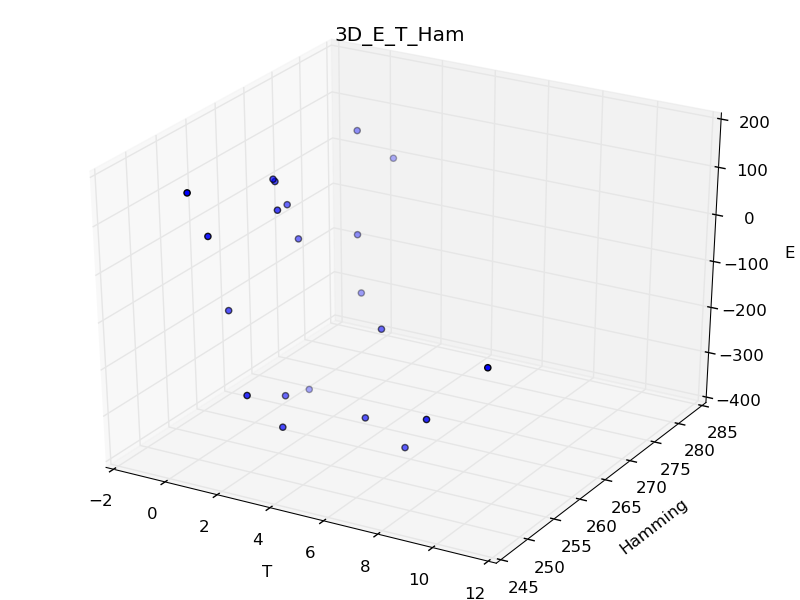
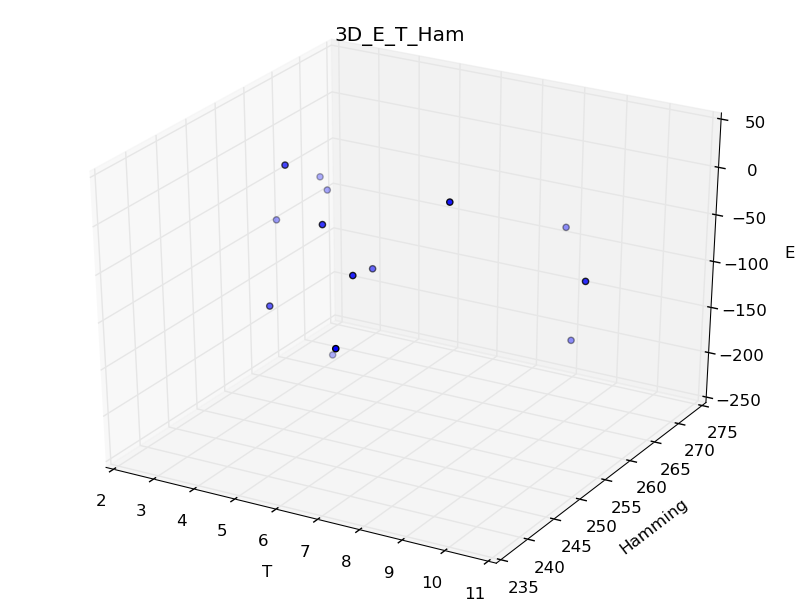
Added method to get timing of a full simulated annealing.

diff --git a/main.py b/main.py
@@ -3,6 +3,7 @@
 import os
 import re
 import numpy as np
+import time
 from graph.plot import (
     plot,
     multiPlot,
@@ -13,6 +14,7 @@ from data import (
     Solution,
 )
 from pdb import set_trace as debug
+from multiprocessing.pool import Pool
 
 
 def parse_instance(file):
@@ -40,6 +42,16 @@ def get_all_instances(nb_sg=None, nb_qubits=None, id=None):
                 instances.append(parse_instance(file))
     return instances
 
+
+def pool_SA(instance):
+    start = time.time()
+    while True:
+        conf, cost = instance.run_SA()
+        if cost == instance.min_cost:
+            break
+    end = time.time()
+    return (end - start)
+
 if __name__ == '__main__':
     data = Instance(nb_sg=504, id=199)
     print 'Cost of config:', data.get_cost(data.config)
@@ -47,7 +59,7 @@ if __name__ == '__main__':
     sa = data.run_SA(T=10)
     print 'Simulated Annealing: ', sa[1]
     print 'Loading all instances...'
-    instances = get_all_instances(nb_sg=420)
+    instances = get_all_instances(nb_sg=420, id=199)
     print 'Solving all instances...'
-    score = [i.run_SA() for i in instances]
-    debug()
+    p = Pool()
+    score = p.map(pool_SA, instances)

diff --git a/data.py b/data.py
@@ -129,7 +129,7 @@ class Instance(object):
         misc.imsave(directory, img)
 
     @timeit
-    def run_SA(self, T=10, c=0.8, n_iter=100, n_sweeps=10, T_min=1):
+    def run_SA(self, T=10, c=0.9, n_iter=100, n_sweeps=10, T_min=1):
         """
             Implements a simulated annealing procedure
             to find the lowest energy for this given instance problem
@@ -168,6 +168,7 @@ class Instance(object):
                           ylabel='Hamming')
                 plot3D([temperatures, hammings, scores], title='3D_E_T_Ham',
                        xlabel='T', ylabel='Hamming', zlabel='E')
+        print 'Found best for ', self.id, ' ', old_cost
         return (sol, old_cost)
 
     def run_GA(self):
